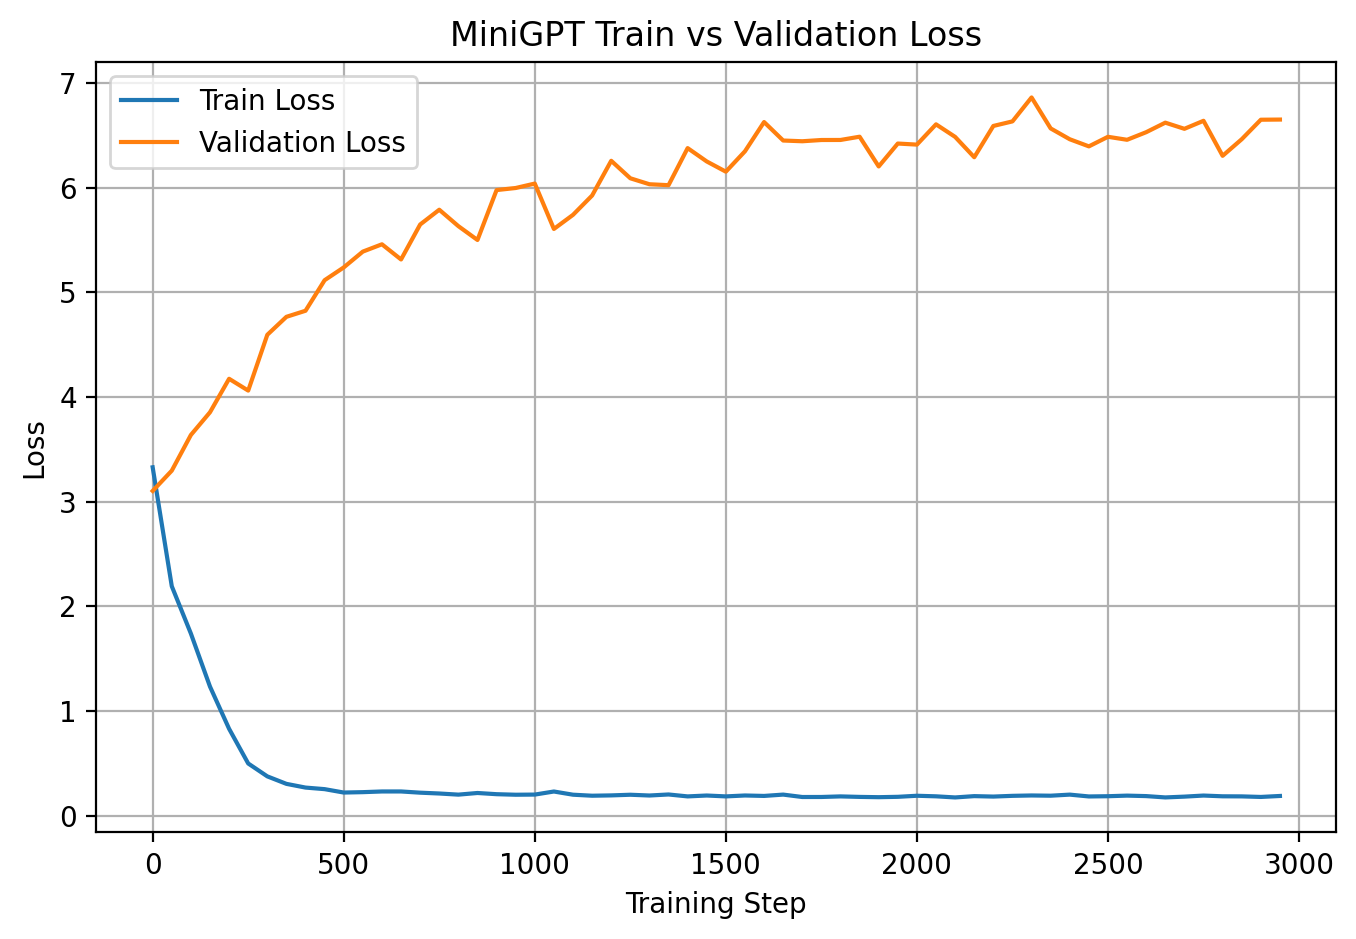
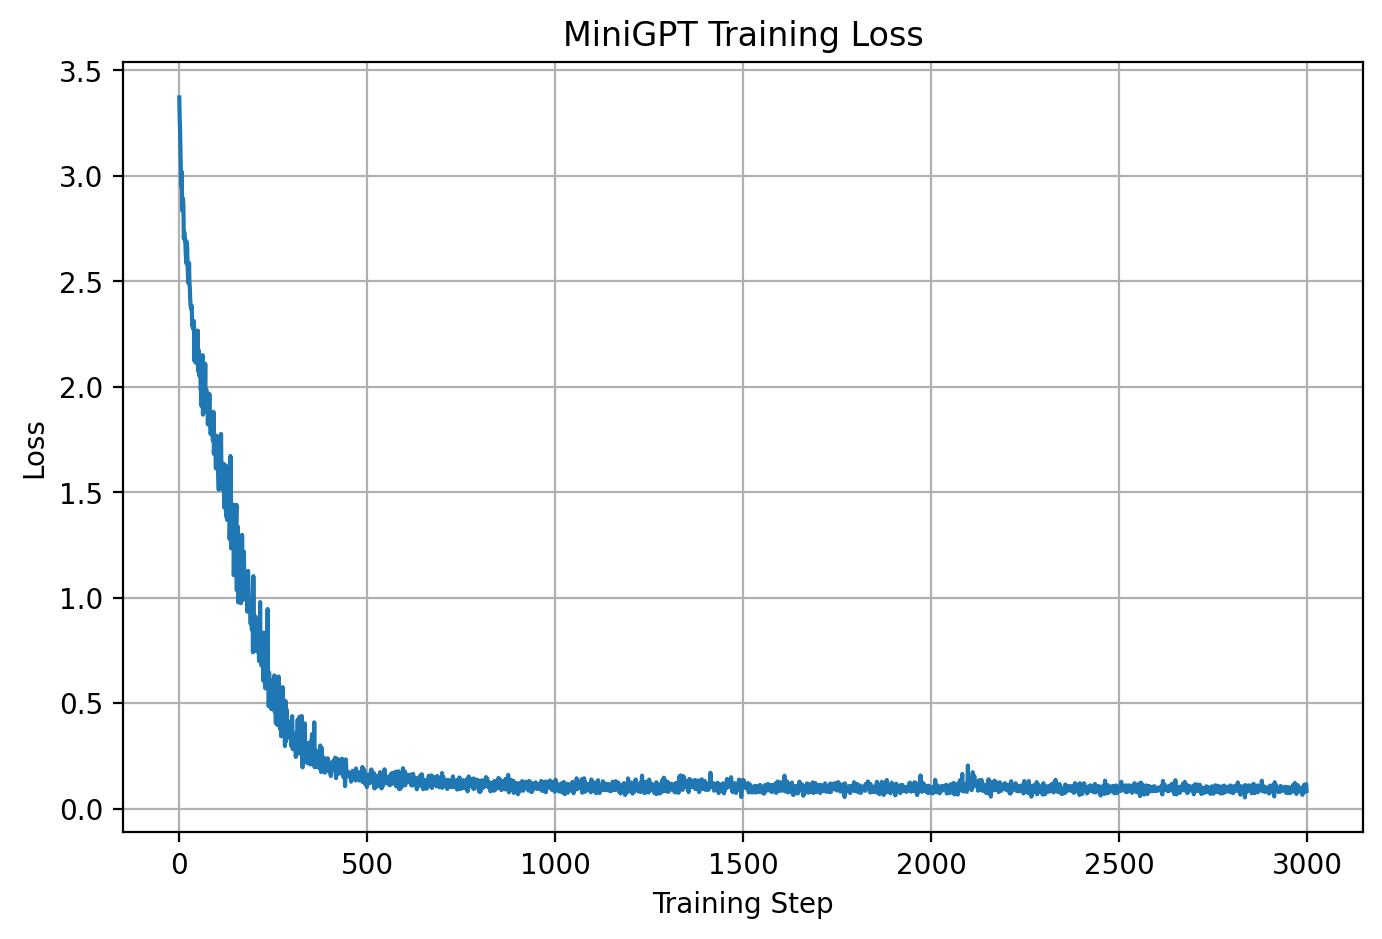
feat: add loss curve

diff --git a/scripts/plot_loss.py b/scripts/plot_loss.py
@@ -1,28 +1,19 @@
 import matplotlib.pyplot as plt
 
 
-def read_losses(path):
-    with open(path) as f:
-        return [float(line.strip()) for line in f if line.strip()]
-
-
 def main():
-    train_losses = read_losses("train_loss_history.txt")
-    val_losses = read_losses("val_loss_history.txt")
-
-    steps = [i * 50 for i in range(len(train_losses))]
+    with open("loss_history.txt") as f:
+        losses = [float(line.strip()) for line in f if line.strip()]
 
     plt.figure(figsize=(8, 5))
-    plt.plot(steps, train_losses, label="Train Loss")
-    plt.plot(steps, val_losses, label="Validation Loss")
+    plt.plot(losses)
     plt.xlabel("Training Step")
     plt.ylabel("Loss")
-    plt.title("MiniGPT Train vs Validation Loss")
-    plt.legend()
+    plt.title("MiniGPT Training Loss")
     plt.grid(True)
 
     plt.savefig("loss_curve.png", dpi=200, bbox_inches="tight")
-    print("Saved loss curve to loss_curve.png")
+    print("Saved loss curve to loss_curve_previous.png")
 
 
 if __name__ == "__main__":
